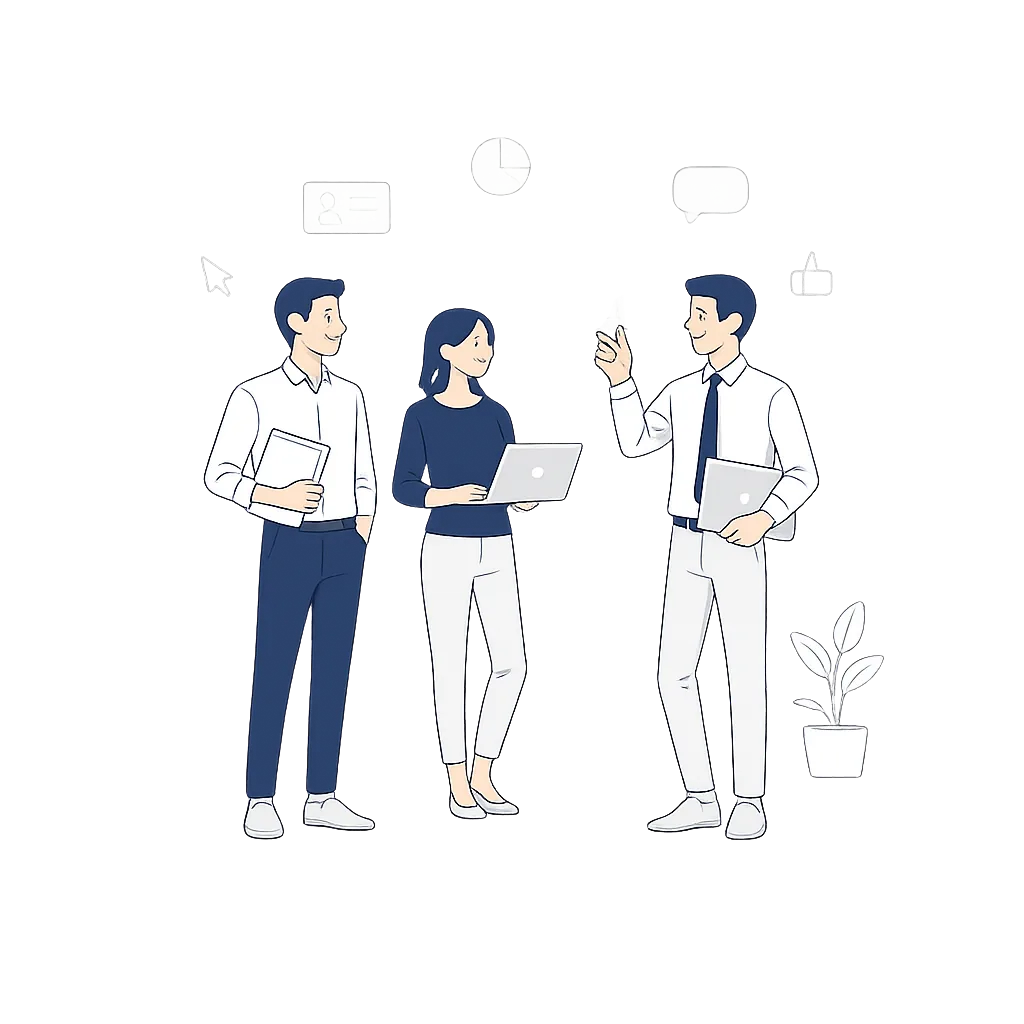
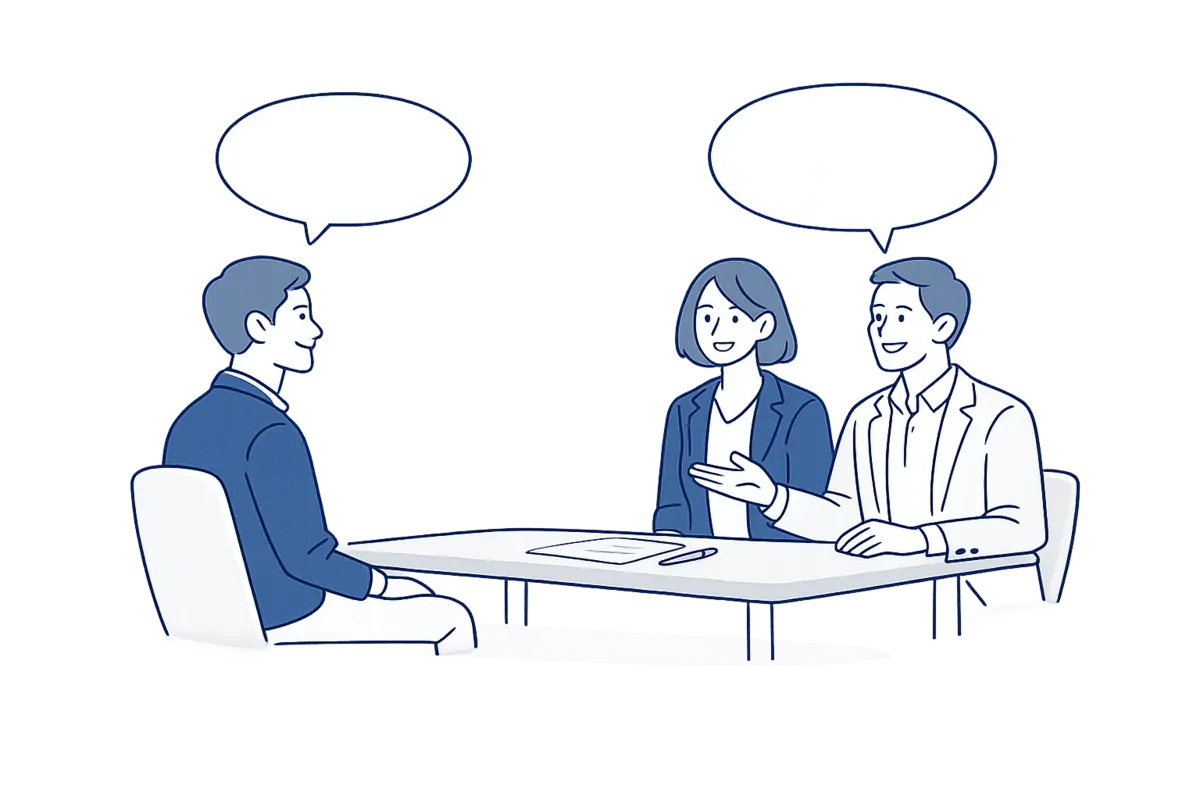
Hero panel illustration with speech bubbles, nav polish, footer lockup
- New hero: candidate + panel interview illustration (landscape WebP) with
  crisp HTML speech-bubble text overlays scaled in container units
- Updated seeker illustration to square framing matching the employer
- Nav: shrink-on-scroll, soft shadow, CTA arrow + refined hover, clearer
  active/hover link states
- Footer: "Talent aligned" lockup under the wordmark; removed the
  "remote-first ... in India" phrasing site-wide; dropped Remote-first tag

diff --git a/css/styles.css b/css/styles.css
@@ -99,23 +99,28 @@ ol, ul { margin: 0; padding: 0; list-style: none; }
 .link-arrow:hover::after { transform: scaleX(1); }
 
 /* ===== Nav ===== */
-.nav { position: fixed; top: 0; left: 0; right: 0; z-index: 100; transition: background 0.4s var(--ease), border-color 0.4s var(--ease); border-bottom: 1px solid transparent; }
+.nav { position: fixed; top: 0; left: 0; right: 0; z-index: 100; transition: background 0.4s var(--ease), box-shadow 0.4s var(--ease); }
 .nav::before { content: ""; position: absolute; inset: 0; background: linear-gradient(to bottom, rgba(246, 242, 234, 0.92) 60%, rgba(246, 242, 234, 0)); opacity: 0; transition: opacity 0.4s var(--ease); pointer-events: none; z-index: -1; }
 .nav.is-scrim::before { opacity: 1; }
-.nav__inner { display: flex; align-items: center; justify-content: space-between; height: var(--nav-h); }
+.nav__inner { display: flex; align-items: center; justify-content: space-between; height: var(--nav-h); transition: height 0.4s var(--ease); }
 .nav__brand { display: inline-flex; align-items: center; }
-.nav__logo { height: 42px; width: auto; display: block; }
+.nav__logo { height: 42px; width: auto; display: block; transition: height 0.4s var(--ease); }
 .nav__logo--light { display: none; }
 .nav__links { display: flex; align-items: center; gap: clamp(1.25rem, 3vw, 2.75rem); }
-.nav__links a { position: relative; font-size: 0.95rem; color: var(--muted); transition: color 0.3s var(--ease); }
-.nav__links a:not(.nav__cta)::after { content: ""; position: absolute; left: 0; bottom: -4px; width: 100%; height: 1px; background: var(--navy); transform: scaleX(0); transform-origin: left; transition: transform 0.4s var(--ease); }
-.nav__links a:not(.nav__cta):hover { color: var(--navy); }
-.nav__links a:not(.nav__cta):hover::after { transform: scaleX(1); }
-.nav__cta { color: var(--white) !important; background: var(--navy); padding: 0.6rem 1.35rem; border-radius: 999px; white-space: nowrap; transition: transform 0.4s var(--ease), box-shadow 0.4s var(--ease); }
-.nav__cta:hover { transform: translateY(-1px); box-shadow: 0 14px 28px -14px rgba(26, 43, 74, 0.6); }
-.nav.is-solid { background: rgba(246, 242, 234, 0.97); border-bottom-color: var(--line); }
+.nav__links a { position: relative; font-size: 0.95rem; font-weight: 500; letter-spacing: 0.01em; color: var(--navy); transition: opacity 0.3s var(--ease), color 0.3s var(--ease); }
+.nav__links a:not(.nav__cta) { opacity: 0.6; }
+.nav__links a:not(.nav__cta)::after { content: ""; position: absolute; left: 0; bottom: -6px; width: 100%; height: 2px; border-radius: 2px; background: var(--navy); transform: scaleX(0); transform-origin: left; transition: transform 0.4s var(--ease); }
+.nav__links a:not(.nav__cta):hover, .nav__links a:not(.nav__cta):focus-visible { opacity: 1; }
+.nav__links a:not(.nav__cta):hover::after, .nav__links a:not(.nav__cta):focus-visible::after { transform: scaleX(1); }
+.nav__cta { color: var(--white) !important; background: var(--navy); padding: 0.62rem 1.4rem; border-radius: 999px; white-space: nowrap; box-shadow: 0 10px 22px -14px rgba(26, 43, 74, 0.7); transition: transform 0.35s var(--ease), box-shadow 0.35s var(--ease), background 0.3s var(--ease); }
+.nav__cta::after { content: "→"; display: inline-block; margin-left: 0.45rem; transition: transform 0.35s var(--ease); }
+.nav__cta:hover { transform: translateY(-2px); background: var(--navy-deep); box-shadow: 0 18px 34px -14px rgba(26, 43, 74, 0.6); }
+.nav__cta:hover::after { transform: translateX(3px); }
+.nav.is-solid { background: rgba(246, 242, 234, 0.97); box-shadow: 0 10px 30px -18px rgba(26, 43, 74, 0.32); }
+.nav.is-solid .nav__inner { height: 62px; }
+.nav.is-solid .nav__logo { height: 34px; }
 /* scroll-spy active link */
-.nav__links a:not(.nav__cta).is-active { color: var(--navy); }
+.nav__links a:not(.nav__cta).is-active { opacity: 1; }
 .nav__links a:not(.nav__cta).is-active::after { transform: scaleX(1); }
 /* hamburger toggle (mobile only) */
 .nav__toggle { display: none; width: 42px; height: 42px; margin: 0 -9px; padding: 0; border: 0; background: transparent; cursor: pointer; flex-direction: column; align-items: center; justify-content: center; gap: 5px; z-index: 2; }
@@ -149,10 +154,14 @@ ol, ul { margin: 0; padding: 0; list-style: none; }
 .hero__underline path { fill: none; stroke: var(--navy); stroke-width: 5; stroke-linecap: round; opacity: 0.85; }
 .hero__positioning { font-size: clamp(1.1rem, 1.6vw, 1.35rem); color: var(--muted); max-width: 500px; line-height: 1.6; margin-bottom: 2.5rem; }
 .hero__actions { display: flex; align-items: center; gap: 2rem; flex-wrap: wrap; }
-.hero__art { position: relative; margin: 0; aspect-ratio: 1 / 1; max-width: 860px; margin-left: auto; width: 100%; }
+.hero__art { position: relative; margin: 0; aspect-ratio: 3 / 2; max-width: 760px; margin-left: auto; width: 100%; container-type: inline-size; }
 /* The illustration carries built-in whitespace; scale it up a touch so the
    figures fill the frame. Overflow spills into the hero's empty space (fine). */
-.hero__art .art__img { transform: scale(1.12); }
+/* Speech-bubble text overlays (sized in container units so they scale with the art) */
+.hero-line { position: absolute; z-index: 4; transform: translate(-50%, -50%); text-align: center; color: var(--navy); font-family: var(--sans); font-weight: 500; font-size: 2.1cqi; line-height: 1.2; width: 19cqi; opacity: 0; animation: bubble-pop 0.5s var(--pop) both; }
+.hero-line--left { left: 29%; top: 18.5%; animation-delay: 0.7s; }
+.hero-line--right { left: 72%; top: 18.5%; animation-delay: 1s; }
+@keyframes bubble-pop { from { opacity: 0; transform: translate(-50%, -50%) scale(0.82); } to { opacity: 1; transform: translate(-50%, -50%) scale(1); } }
 .hero__scroll { position: absolute; bottom: 2.25rem; left: 50%; transform: translateX(-50%); display: flex; flex-direction: column; align-items: center; gap: 0.75rem; font-size: 0.72rem; letter-spacing: 0.22em; text-transform: uppercase; color: var(--muted); }
 .hero__scrollLine { width: 1px; height: 46px; background: linear-gradient(rgba(26, 43, 74, 0.5), rgba(26, 43, 74, 0)); animation: scrollPulse 2.4s var(--ease) infinite; transform-origin: top; }
 @keyframes scrollPulse { 0%, 100% { transform: scaleY(0.4); opacity: 0.3; } 50% { transform: scaleY(1); opacity: 1; } }
@@ -313,7 +322,9 @@ ol, ul { margin: 0; padding: 0; list-style: none; }
 .footer { background: var(--navy-deep); color: rgba(255, 255, 255, 0.6); padding: clamp(3.5rem, 7vw, 5.5rem) 0 2.5rem; border-top: 1px solid var(--line-dark); }
 .footer__inner { display: grid; grid-template-columns: 1.7fr 1fr 1fr; gap: clamp(2rem, 5vw, 4rem); align-items: start; }
 .footer__brand { max-width: 34ch; }
-.footer__logo { height: 40px; width: auto; opacity: 0.95; margin-bottom: 1.4rem; }
+.footer__logo { height: 40px; width: auto; opacity: 0.95; margin-bottom: 0.3rem; }
+.footer__lockup { font-family: var(--serif); font-weight: 400; font-size: 1.1rem; line-height: 1; letter-spacing: 0.01em; color: rgba(255, 255, 255, 0.9); margin: 0 0 1.2rem 135px; }
+.footer__lockup em { font-style: italic; }
 .footer__tag { color: rgba(255, 255, 255, 0.6); font-size: 1rem; line-height: 1.7; margin-bottom: 1.4rem; }
 .footer__email { color: #fff; font-size: 0.98rem; border-bottom: 1px solid rgba(255, 255, 255, 0.3); padding-bottom: 2px; transition: border-color 0.3s var(--ease); }
 .footer__email:hover { border-bottom-color: #fff; }
@@ -321,7 +332,7 @@ ol, ul { margin: 0; padding: 0; list-style: none; }
 .footer__colTitle { font-size: 0.76rem; font-weight: 600; letter-spacing: 0.16em; text-transform: uppercase; color: rgba(255, 255, 255, 0.4); margin-bottom: 0.35rem; }
 .footer__col a { width: max-content; color: rgba(255, 255, 255, 0.68); font-size: 0.98rem; transition: color 0.3s var(--ease); }
 .footer__col a:hover { color: #fff; }
-.footer__bottom { display: flex; justify-content: space-between; flex-wrap: wrap; gap: 0.75rem; margin-top: clamp(2.5rem, 5vw, 4rem); padding-top: 1.75rem; border-top: 1px solid var(--line-dark); font-size: 0.85rem; color: rgba(255, 255, 255, 0.45); }
+.footer__bottom { display: flex; align-items: center; justify-content: space-between; flex-wrap: wrap; gap: 0.75rem; margin-top: clamp(2.5rem, 5vw, 4rem); padding-top: 1.75rem; border-top: 1px solid var(--line-dark); font-size: 0.85rem; color: rgba(255, 255, 255, 0.45); }
 
 /* ===== Reveal =====
    Arrival is a keyframe animation on opacity/translate, and the stagger uses
@@ -371,7 +382,7 @@ ol, ul { margin: 0; padding: 0; list-style: none; }
   }
   .nav.is-open .nav__links { transform: none; opacity: 1; pointer-events: auto; }
   .nav__links a { font-size: 1.15rem; padding: 0.95rem 0; }
-  .nav__links a:not(.nav__cta) { border-bottom: 1px solid var(--line); }
+  .nav__links a:not(.nav__cta) { border-bottom: 1px solid var(--line); opacity: 1; }
   .nav__links a:not(.nav__cta)::after { display: none; }
   .nav__cta { text-align: center; margin-top: 1.1rem; }
 }
@@ -389,5 +400,6 @@ ol, ul { margin: 0; padding: 0; list-style: none; }
   html { scroll-behavior: auto; }
   .reveal { opacity: 1; animation: none; }
   .hero__scrollLine { animation: none; }
+  .hero-line { animation: none; opacity: 1; }
   .faq__a { transition: none; }
 }

diff --git a/index.html b/index.html
@@ -4,7 +4,7 @@
   <meta charset="UTF-8" />
   <meta name="viewport" content="width=device-width, initial-scale=1.0" />
   <title>Synergy Scout — Talent aligned</title>
-  <meta name="description" content="Synergy Scout — a premium, remote-first technology recruitment partner in India for product companies, startups, GCCs and IT services organizations. Talent aligned." />
+  <meta name="description" content="Synergy Scout — a premium technology recruitment partner for product companies, startups, GCCs and IT services organizations. Talent aligned." />
   <meta name="theme-color" content="#1a2b4a" />
 
   <!-- Favicons -->
@@ -15,18 +15,18 @@
   <!-- Social / Open Graph -->
   <meta property="og:type" content="website" />
   <meta property="og:title" content="Synergy Scout — Talent aligned" />
-  <meta property="og:description" content="A remote-first technology recruitment partner in India for product companies, startups, GCCs and IT services. We respect both sides of the table — and make matches that hold." />
+  <meta property="og:description" content="A technology recruitment partner for product companies, startups, GCCs and IT services. We respect both sides of the table — and make matches that hold." />
   <meta property="og:url" content="https://synergyscout.in" />
   <meta property="og:image" content="https://synergyscout.in/assets/apple-touch-icon.png" />
   <meta property="og:site_name" content="Synergy Scout" />
   <meta name="twitter:card" content="summary" />
   <meta name="twitter:title" content="Synergy Scout — Talent aligned" />
-  <meta name="twitter:description" content="A remote-first technology recruitment partner in India. We respect both sides of the table — and make matches that hold." />
+  <meta name="twitter:description" content="We respect both sides of the table — and make matches that hold." />
 
   <link rel="preconnect" href="https://fonts.googleapis.com" />
   <link rel="preconnect" href="https://fonts.gstatic.com" crossorigin />
   <link href="https://fonts.googleapis.com/css2?family=Fraunces:ital,opsz,wght@0,9..144,400;0,9..144,500;0,9..144,600;1,9..144,400;1,9..144,500&family=Inter:wght@400;500;600&display=swap" rel="stylesheet" />
-  <link rel="stylesheet" href="css/styles.css?v=35" />
+  <link rel="stylesheet" href="css/styles.css?v=45" />
 </head>
 <body>
 
@@ -112,10 +112,12 @@
         </div>
       </div>
 
-      <figure class="hero__art reveal" data-parallax="0.04">
-        <img src="assets/hero-illustration.webp" alt="A candidate and a company meeting at a perfect match" class="art__img"
+      <figure class="hero__art reveal">
+        <img src="assets/hero-illustration.webp?v=2" alt="A candidate and a company meeting at a perfect match" class="art__img"
              onload="this.nextElementSibling.style.display='none'" onerror="this.style.display='none'" />
         <svg class="art__ph" viewBox="0 0 480 360" preserveAspectRatio="xMidYMid meet" aria-hidden="true"><use href="#illoPair" /></svg>
+        <span class="hero-line hero-line--left">I'm glad I'll be joining you</span>
+        <span class="hero-line hero-line--right">We found the right match</span>
       </figure>
     </div>
     <a href="#believe" class="hero__scroll" aria-label="Scroll down">
@@ -299,7 +301,7 @@
   <section class="duo duo--employers" id="paths">
     <div class="wave wave--band" aria-hidden="true"><svg viewBox="0 0 1440 100" preserveAspectRatio="none"><use href="#waveTop" /></svg></div>
     <div class="container duo__inner">
-      <figure class="duo__art reveal" data-parallax="0.05">
+      <figure class="duo__art reveal">
         <img src="assets/employers-illustration.webp" alt="A considered shortlist presented to a hiring team" class="art__img"
              onload="this.nextElementSibling.style.display='none'" onerror="this.style.display='none'" />
         <svg class="art__ph" viewBox="0 0 480 360" preserveAspectRatio="xMidYMid meet" aria-hidden="true"><use href="#illoShortlist" /></svg>
@@ -324,8 +326,8 @@
   <!-- ===== For job seekers ===== -->
   <section class="duo duo--seekers">
     <div class="container duo__inner duo__inner--flip">
-      <figure class="duo__art reveal" data-parallax="0.05">
-        <img src="assets/seekers-illustration.webp" alt="A job seeker listened to in a genuine conversation" class="art__img"
+      <figure class="duo__art reveal">
+        <img src="assets/seekers-illustration.webp?v=3" alt="A job seeker listened to in a genuine conversation" class="art__img"
              onload="this.nextElementSibling.style.display='none'" onerror="this.style.display='none'" />
         <svg class="art__ph" viewBox="0 0 480 360" preserveAspectRatio="xMidYMid meet" aria-hidden="true"><use href="#illoPair" /></svg>
       </figure>
@@ -355,9 +357,6 @@
         <h2 class="contact__heading reveal">Let's find the <br />right people.</h2>
         <p class="contact__body reveal">
           Tell us what you're building or what you're looking for. We'll take it from there.
-        </p>
-        <p class="contact__alt reveal">
-          Prefer email? <a href="mailto:hello@synergyscout.in">hello@synergyscout.in</a>
         </p>
       </div>
 
@@ -413,8 +412,8 @@
       <div class="footer__inner">
         <div class="footer__brand">
           <img src="assets/logo-white.png" alt="Synergy Scout" class="footer__logo" />
-          <p class="footer__tag">A remote-first technology recruitment partner in India. We respect both sides of the table — and make matches that hold.</p>
-          <a href="mailto:hello@synergyscout.in" class="footer__email">hello@synergyscout.in</a>
+          <p class="footer__lockup">Talent <em>aligned</em></p>
+          <p class="footer__tag">We respect both sides of the table — and make matches that hold.</p>
         </div>
         <nav class="footer__col" aria-label="Explore">
           <span class="footer__colTitle">Explore</span>
@@ -425,17 +424,17 @@
         </nav>
         <nav class="footer__col" aria-label="Connect">
           <span class="footer__colTitle">Connect</span>
-          <a href="mailto:hello@synergyscout.in">Email</a>
+          <a href="mailto:hello@synergyscout.in">hello@synergyscout.in</a>
           <a href="#" data-needs-url="linkedin">LinkedIn</a>
         </nav>
       </div>
       <div class="footer__bottom">
         <span>© 2026 Synergy Scout</span>
-        <span>Talent aligned · Remote-first · India</span>
+        <span>India</span>
       </div>
     </div>
   </footer>
 
-  <script src="js/main.js?v=35"></script>
+  <script src="js/main.js?v=36"></script>
 </body>
 </html>

diff --git a/js/main.js b/js/main.js
@@ -2,10 +2,8 @@
 const nav = document.getElementById('nav');
 const hero = document.getElementById('hero');
 
-// Single rAF-throttled scroll loop: nav state + scroll progress + parallax.
+// Single rAF-throttled scroll loop: nav state + scroll progress.
 const progress = document.getElementById('scrollProgress');
-const parallaxEls = [...document.querySelectorAll('[data-parallax]')];
-const reduceMotion = window.matchMedia('(prefers-reduced-motion: reduce)').matches;
 let heroH = hero ? hero.offsetHeight : 0;
 let ticking = false;
 const onFrame = () => {
@@ -17,14 +15,6 @@ const onFrame = () => {
   if (progress) {
     const docH = document.documentElement.scrollHeight - vh;
     progress.style.transform = `scaleX(${docH > 0 ? Math.min(y / docH, 1) : 0})`;
-  }
-  if (!reduceMotion) {
-    for (const el of parallaxEls) {
-      const r = el.getBoundingClientRect();
-      const mid = r.top + r.height / 2 - vh / 2;
-      const f = parseFloat(el.dataset.parallax) || 0.05;
-      el.style.transform = `translate3d(0, ${(-mid * f).toFixed(1)}px, 0)`;
-    }
   }
   ticking = false;
 };
